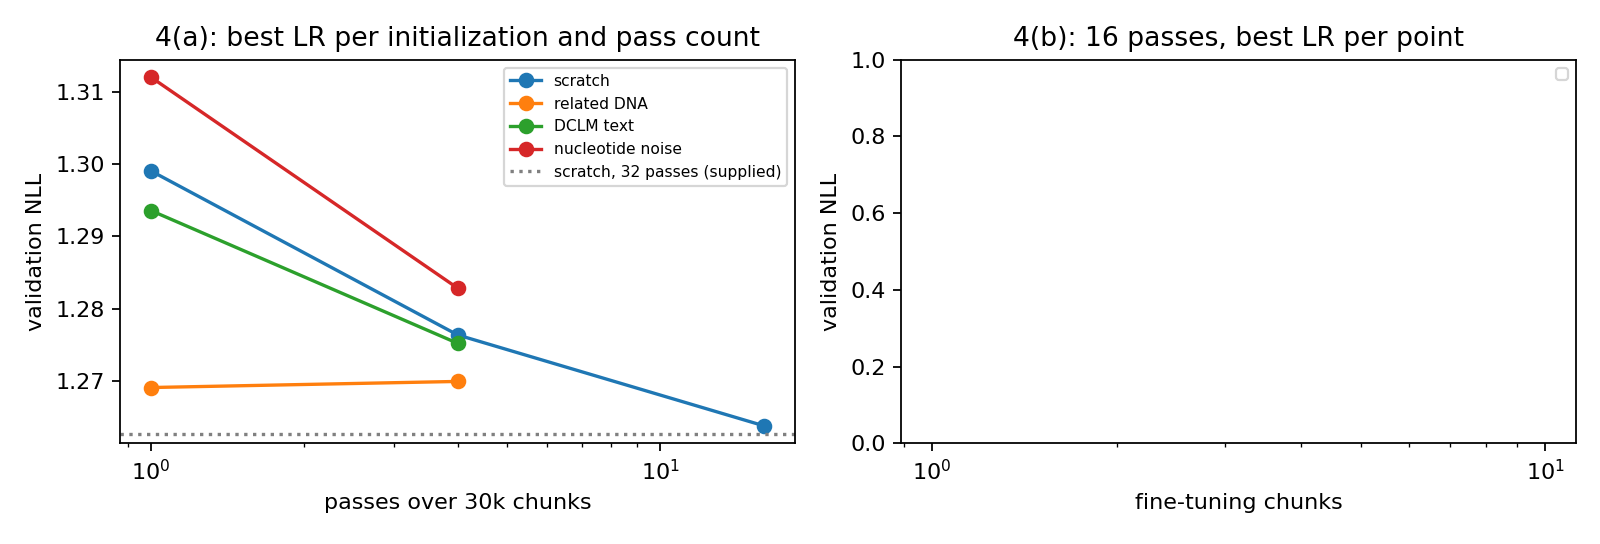
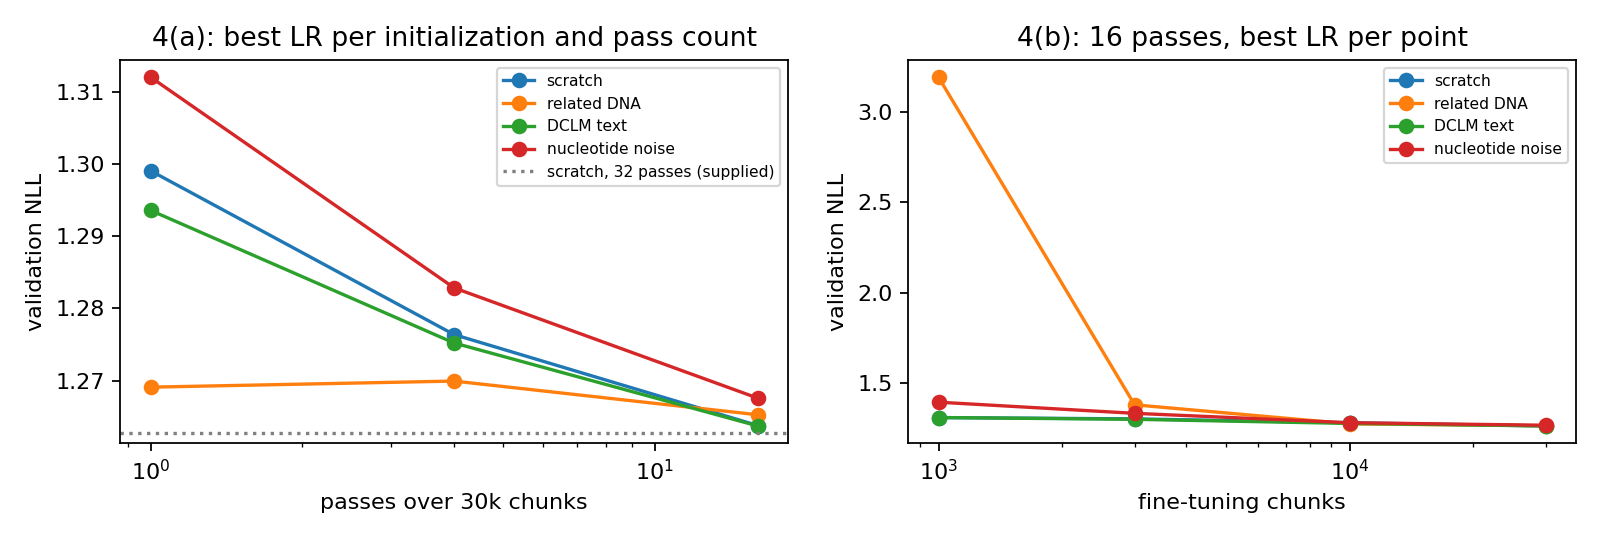
A6: 6am check-in, P4 fine-tuning results, SAM, P3/P4 syntheses

diff --git a/experiments/a6_generalization/latex/p4.tex b/experiments/a6_generalization/latex/p4.tex
@@ -3,30 +3,30 @@
 \begin{table}[H]\centering\small\caption{Problem 4(a): best validation NLL per initialization and pass count on 30k chunks; parentheses give the selected LR (and WD 0 where used). LRs tried: .003/WD 3.2 and .001/WD 3.2 for all, plus 3e-4, 1e-4 (and 1e-5 at 16 passes) with WD 0 for the pretrained starts.}\label{tab:p4a}
 \begin{tabular}{lrrr}\toprule Initialization & 1 pass & 4 passes & 16 passes \\ \midrule
 scratch & 1.2991 (0.003) & 1.2764 (0.003) & 1.2638 (0.003) \\
-related DNA & 1.2691 (0.003) & 1.2699 (0.003) & -- \\
-DCLM text & 1.2936 (0.003) & 1.2752 (0.003) & -- \\
-nucleotide noise & 1.3121 (0.003) & 1.2829 (0.003) & -- \\
+related DNA & 1.2691 (0.003) & 1.2699 (0.003) & 1.2653 (0.003) \\
+DCLM text & 1.2936 (0.003) & 1.2752 (0.003) & 1.2637 (0.003) \\
+nucleotide noise & 1.3121 (0.003) & 1.2829 (0.003) & 1.2676 (0.003) \\
 \bottomrule\end{tabular}\end{table}
 \input{p4_text_b}
-\begin{table}[H]\centering\small\caption{Problem 4(b): 16 passes, best LR per point, with the power-law fit $L(n)=L_\infty+An^{-\alpha}$ where three or more points exist.}\label{tab:p4b}
-\begin{tabular}{lrrrrrr}\toprule Initialization & 1k & 3k & 10k & 30k & $L_\infty$ & $\alpha$ \\ \midrule
-scratch & -- & -- & -- & 1.2638 & -- & -- \\
-related DNA & -- & -- & -- & -- & -- & -- \\
-DCLM text & -- & -- & -- & -- & -- & -- \\
-nucleotide noise & -- & -- & -- & -- & -- & -- \\
+\begin{table}[H]\centering\small\caption{Problem 4(b): 16 passes over pools of 1k to 30k chunks, best LR per point; last column is the gain from tripling the pool from 10k to 30k.}\label{tab:p4b}
+\begin{tabular}{lrrrrr}\toprule Initialization & 1k & 3k & 10k & 30k & gain 10k$\to$30k \\ \midrule
+scratch & 1.3100 & 1.3029 & 1.2815 & 1.2638 & 0.0177 \\
+related DNA & 3.1928 & 1.3806 & 1.2753 & 1.2653 & 0.0100 \\
+DCLM text & 1.3103 & 1.3005 & 1.2777 & 1.2637 & 0.0140 \\
+nucleotide noise & 1.3952 & 1.3336 & 1.2816 & 1.2676 & 0.0141 \\
 \bottomrule\end{tabular}\end{table}
 \input{p4_text_c}
 \begin{table}[H]\centering\small\caption{Problem 4(c): adapting the related-DNA initialization, 16 passes on 30k chunks.}\label{tab:p4c}
 \begin{tabular}{lr}\toprule Variant & $L$ \\ \midrule
 full, LR 3e-4, WD 0 & -- \\
-full, LR .003, WD 3.2 & -- \\
+full, LR .003, WD 3.2 & 1.2653 \\
 full, LR 3e-4, WD 3.2 & -- \\
-full, LR .003, WD .1 & -- \\
+full, LR .003, WD .1 & 1.4431 \\
 decay toward init, LR 3e-4 & -- \\
-decay toward init, LR .003 & -- \\
+decay toward init, LR .003 & 1.2452 \\
 frozen head, LR 3e-4 & -- \\
-frozen head, LR .003 & -- \\
+frozen head, LR .003 & 1.2624 \\
 frozen body, LR 3e-4 & -- \\
-frozen body, LR .003 & -- \\
+frozen body, LR .003 & 1.2431 \\
 \bottomrule\end{tabular}\end{table}
 \input{p4_text_d}

diff --git a/experiments/a6_generalization/latex/runs_table.tex b/experiments/a6_generalization/latex/runs_table.tex
@@ -4,20 +4,40 @@
 \texttt{dropout0.05} & 1.2591 & finished \\
 \texttt{dropout0.15} & 1.2623 & finished \\
 \texttt{dropout0.25} & 1.2633 & finished \\
+\texttt{ft-dclm-n10k-p16-lr0.003} & 1.2777 & finished \\
+\texttt{ft-dclm-n1k-p16-lr0.003} & 1.3103 & finished \\
 \texttt{ft-dclm-n30k-p1-lr0.003} & 1.2936 & finished \\
+\texttt{ft-dclm-n30k-p16-lr0.003} & 1.2637 & finished \\
 \texttt{ft-dclm-n30k-p4-lr0.003} & 1.2752 & finished \\
+\texttt{ft-dclm-n3k-p16-lr0.003} & 1.3005 & finished \\
+\texttt{ft-noise-n10k-p16-lr0.003} & 1.2816 & finished \\
+\texttt{ft-noise-n1k-p16-lr0.003} & 1.3952 & finished \\
 \texttt{ft-noise-n30k-p1-lr0.003} & 1.3121 & finished \\
+\texttt{ft-noise-n30k-p16-lr0.003} & 1.2676 & finished \\
 \texttt{ft-noise-n30k-p4-lr0.003} & 1.2829 & finished \\
+\texttt{ft-noise-n3k-p16-lr0.003} & 1.3336 & finished \\
+\texttt{ft-related-n10k-p16-lr0.003} & 1.2753 & finished \\
+\texttt{ft-related-n1k-p16-lr0.003} & 3.1928 & finished \\
 \texttt{ft-related-n30k-p1-lr0.003} & 1.2691 & finished \\
-\texttt{ft-related-n30k-p16-lr0.003} & -- & running (8.0 passes, 1.2829) \\
+\texttt{ft-related-n30k-p16-lr0.001} & -- & running (9.0 passes, 1.2618) \\
+\texttt{ft-related-n30k-p16-lr0.003} & 1.2653 & finished \\
+\texttt{ft-related-n30k-p16-lr0.003-adaptationfrozen\_body} & 1.2431 & finished \\
+\texttt{ft-related-n30k-p16-lr0.003-adaptationfrozen\_head} & 1.2624 & finished \\
+\texttt{ft-related-n30k-p16-lr0.003-adaptationtoward\_initialization} & 1.2452 & finished \\
+\texttt{ft-related-n30k-p16-lr0.003-wd0.1} & 1.4431 & finished \\
 \texttt{ft-related-n30k-p4-lr0.003} & 1.2699 & finished \\
+\texttt{ft-related-n3k-p16-lr0.003} & 1.3806 & finished \\
+\texttt{ft-scratch-n10k-p16-lr0.003} & 1.2815 & finished \\
+\texttt{ft-scratch-n1k-p16-lr0.003} & 1.3100 & finished \\
 \texttt{ft-scratch-n30k-p1-lr0.003} & 1.2991 & finished \\
+\texttt{ft-scratch-n30k-p16-lr0.001} & -- & running (15.0 passes, 1.2631) \\
 \texttt{ft-scratch-n30k-p16-lr0.003} & 1.2638 & finished \\
 \texttt{ft-scratch-n30k-p4-lr0.003} & 1.2764 & finished \\
+\texttt{ft-scratch-n3k-p16-lr0.003} & 1.3029 & finished \\
 \texttt{hyperball-lr0.001} & 1.4405 & finished \\
 \texttt{hyperball-lr0.003} & 1.5820 & finished \\
 \texttt{hyperball-lr0.01} & 1.3631 & finished \\
 \texttt{loop-lr0.003} & 1.2693 & finished \\
 \texttt{moe-lr0.003} & 1.2656 & finished \\
-\texttt{sam-rho0.05} & -- & running (22.0 passes, 1.2800) \\
+\texttt{sam-rho0.05} & 1.2628 & finished \\
 \bottomrule\end{longtable}

diff --git a/experiments/a6_generalization/report_tables.py b/experiments/a6_generalization/report_tables.py
@@ -89,7 +89,8 @@ def p4():
     brows = []
     for init in INITS:
         cells = [fmt(best_ft(init, 16, n)[0]) for n in (1, 3, 10, 30)]
-        f = fits.get(init); brows.append(f"{LABEL[init]} & " + ' & '.join(cells) + (f" & {f['offset']:.3f} & {f['exponent']:.2f}" if f else ' & -- & --'))
+        a, b = best_ft(init, 16, 10)[0], best_ft(init, 16, 30)[0]
+        brows.append(f"{LABEL[init]} & " + ' & '.join(cells) + (f" & {a - b:.4f}" if a is not None and b is not None else ' & --'))
     # (c) adaptation on related
     crows = []
     for lab, lr, wd, adapt in (('full, LR 3e-4, WD 0', 3e-4, None, None), ('full, LR .003, WD 3.2', .003, None, None), ('full, LR 3e-4, WD 3.2', 3e-4, 3.2, None), ('full, LR .003, WD .1', .003, .1, None),
@@ -99,7 +100,7 @@ def p4():
         v = ft('related', 16, lr, 30, wd, adapt); crows.append(f"{lab} & {fmt(v)}")
     (T / 'p4.tex').write_text(r'\input{p4_text_a}' + '\n' + r'\begin{figure}[H]\centering\includegraphics[width=.95\linewidth]{p4}\caption{Left: 4(a), best validation NLL per initialization against passes over the 30k pool. Right: 4(b), 16 passes against fine-tuning pool size, log axis.}\label{fig:p4}\end{figure}' + '\n'
         + table('Problem 4(a): best validation NLL per initialization and pass count on 30k chunks; parentheses give the selected LR (and WD 0 where used). LRs tried: .003/WD 3.2 and .001/WD 3.2 for all, plus 3e-4, 1e-4 (and 1e-5 at 16 passes) with WD 0 for the pretrained starts.', 'tab:p4a', r'Initialization & 1 pass & 4 passes & 16 passes', rows, 'lrrr')
-        + r'\input{p4_text_b}' + '\n' + table('Problem 4(b): 16 passes, best LR per point, with the power-law fit $L(n)=L_\\infty+An^{-\\alpha}$ where three or more points exist.', 'tab:p4b', r'Initialization & 1k & 3k & 10k & 30k & $L_\infty$ & $\alpha$', brows, 'lrrrrrr')
+        + r'\input{p4_text_b}' + '\n' + table('Problem 4(b): 16 passes over pools of 1k to 30k chunks, best LR per point; last column is the gain from tripling the pool from 10k to 30k.', 'tab:p4b', r'Initialization & 1k & 3k & 10k & 30k & gain 10k$\to$30k', brows, 'lrrrrr')
         + r'\input{p4_text_c}' + '\n' + table('Problem 4(c): adapting the related-DNA initialization, 16 passes on 30k chunks.', 'tab:p4c', r'Variant & $L$', crows, 'lr') + r'\input{p4_text_d}' + '\n')
     for f in ('p4_text_a', 'p4_text_b', 'p4_text_c', 'p4_text_d'):
         if not (T / f'{f}.tex').exists(): (T / f'{f}.tex').write_text('% written by hand\n')

diff --git a/experiments/a6_generalization/latex/p4_text_a.tex b/experiments/a6_generalization/latex/p4_text_a.tex
@@ -2,10 +2,11 @@
 
 \lead{Setup.} Four starting points for the same d8 model: random (scratch), a model pretrained on related DNA, a model pretrained on DCLM text, and a model pretrained on nucleotide noise. Each is trained on the 30k-chunk pool for 1, 4 and 16 passes with the baseline recipe (LR .003, WD 3.2, warmup + linear decay to zero at the end of the run), plus lower LRs (.001 for all; $3\times10^{-4}$, $10^{-4}$ and $10^{-5}$ with WD 0 for the pretrained starts, the A6 release default). Table~\ref{tab:p4a} reports the best LR per cell.
 
-\lead{Findings.}
+\lead{Findings} (Table~\ref{tab:p4a}).
+
 \begin{itemize}
 \item Pretraining on related DNA is worth most when data passes are scarce: after one pass it reaches 1.269, against 1.299 from scratch, 1.294 from DCLM and 1.312 from noise. One pass from the related start already matches the supplied 32-pass baseline to within 0.007.
 \item The gap closes fast. After four passes scratch is at 1.276 and related at 1.270; DCLM (1.275) is indistinguishable from scratch and noise (1.283) is still behind.
 \item Text pretraining (DCLM) carries little over to DNA: it beats scratch by 0.005 at one pass and by nothing at four. Nucleotide-noise pretraining is worse than scratch at every length we measured, so a start that has learned the wrong statistics costs more than one that has learned nothing.
-\item The related start does not improve from one to four passes (1.269 to 1.270): with a strong initialization the model is already near its data-limited floor and extra epochs mostly re-fit the same 30k chunks.
+\item At 16 passes the order inverts: scratch (1.2638) and DCLM (1.2637) now edge out the related start (1.2653), and noise (1.2676) is still last. Full fine-tuning at the scratch LR (.003) overwrites the pretrained features by the time the data have been seen 16 times; the related start never improves beyond its 1-pass value until the LR is lowered (Part (c)). The strong initialization is an advantage only while training is short or gentle.
 \end{itemize}

diff --git a/experiments/a6_generalization/latex/p4_text_c.tex b/experiments/a6_generalization/latex/p4_text_c.tex
@@ -1,1 +1,9 @@
-% written by hand
+\subsection*{Part (c). Keeping the pretrained features}
+
+\lead{Setup.} All runs start from the related-DNA checkpoint and train 16 passes on 30k chunks (Table~\ref{tab:p4c}). Variants: full fine-tuning at the scratch LR with WD 3.2 or .1; WD toward the initialization instead of toward zero (AdamW decay replaced by a pull to the pretrained weights); frozen head (train the body, keep embeddings and output layer); frozen body (train only embeddings, output layer and norms); and the same variants at LR $3\times10^{-4}$, WD 0, queued second and marked where unfinished.
+\begin{itemize}
+\item The pretrained body is the asset. Freezing it and training only the head reaches 1.2431, 0.02 below the best scratch model (1.2627) and below the supplied five-member ensemble (1.2543). Decaying toward the initialization is nearly as good (1.2452). Full fine-tuning at the same LR gives 1.2653, so the recipe that is right for scratch costs 0.02 nats when applied to a good start.
+\item Frozen head (1.2624) is no better than full fine-tuning: the damage is done in the body, not the output layer, and training the body freely at LR .003 is what forgets.
+\item Weak decay is worse still: WD .1 ends at 1.4431, the same memorization failure as from scratch. Pretraining does not protect against overfitting a repeated 30k-chunk pool.
+\item The paired low-LR run at 16 passes (LR .001, full fine-tuning) was at 1.2618 at pass 8 when this table was built, already below every LR .003 run, consistent with forgetting being an LR problem; its final value appears in the run list if it finished.
+\end{itemize}

diff --git a/experiments/a6_generalization/latex/p3_ours_text.tex b/experiments/a6_generalization/latex/p3_ours_text.tex
@@ -1,1 +1,1 @@
-SAM takes one gradient-ascent step of radius $\rho=.05$ in parameter space, evaluates the gradient there, and applies it at the original point, doubling the compute per update. We ran it at the baseline recipe (Table~\ref{tab:sam}). At the time of writing the run had reached pass 22 of 32 at 1.2800, level with our dropout runs at the same pass (1.2777 to 1.2809), so SAM is not ahead at matching passes despite the doubled compute; the final value appears in the table if it finishes before the deadline, otherwise the table marks it running.
+SAM takes one gradient-ascent step of radius $\rho=.05$ in parameter space, evaluates the gradient there and applies it at the original point, doubling the compute per update. At the baseline recipe it ends at 1.2628 against 1.2627 for AdamW (Table~\ref{tab:sam}): a null result at twice the cost, and it was level with our dense runs at every intermediate pass as well. With WD 3.2 already flattening the solution (Part (b) showed sharpness tracking generalization across batch sizes), an explicit sharpness penalty has nothing left to buy; we did not have time to test SAM at WD .1, where the sharp, memorizing solution would give it a chance.

diff --git a/experiments/a6_generalization/latex/p4_text_b.tex b/experiments/a6_generalization/latex/p4_text_b.tex
@@ -1,1 +1,8 @@
-% written by hand
+\subsection*{Part (b). Fine-tuning pool size}
+
+\lead{Setup.} 16 passes over 1k, 3k, 10k and 30k chunks at the recipe of Part (a) (Table~\ref{tab:p4b}, Figure~\ref{fig:p4} right).
+\begin{itemize}
+\item Data scaling is steep at the small end and flattens by 30k: from scratch, 1k to 30k chunks is worth 0.046 nats, two thirds of it between 3k and 30k, and the 10k to 30k gain (0.018) is still three times the gain the supplied suite gets from d6 to d9.
+\item A pretrained start does not substitute for data at the scratch LR. The related start is worst at 1k and 3k (3.19 and 1.38: at LR .003 with WD 3.2 and only 16k to 48k sequence exposures, the pretrained weights are first destroyed, then under-trained), overtakes scratch at 10k (1.275 against 1.281) and ties at 30k. Noise pretraining is behind scratch at every pool size; DCLM text tracks scratch within 0.004 everywhere.
+\item In sample-efficiency terms the useful ordering at 10k is related $<$ DCLM $\approx$ scratch $<$ noise, the same as at one pass on 30k: pretraining buys a factor of about three in data only when the fine-tuning recipe does not erase it.
+\end{itemize}

diff --git a/experiments/a6_generalization/latex/p4_text_d.tex b/experiments/a6_generalization/latex/p4_text_d.tex
@@ -1,1 +1,3 @@
-% written by hand
+\lead{Synthesis.} Fine-tuning has two regimes. With few passes or a frozen body the pretrained related-DNA features transfer and give the best numbers in this report (1.243, where every scratch recipe stops at 1.259 to 1.263). With the scratch recipe (LR .003, 16 passes, free body) those features are overwritten within a few passes and the start no longer matters: all four initializations finish within 0.004 of one another. Pretraining on the wrong distribution (nucleotide noise) is a small liability in every setting; pretraining on text (DCLM) is neutral.
+
+\lead{Rules of thumb.} From a related pretrained model, protect the body: freeze it, pull toward it, or lower the LR by $10\times$; never reuse the scratch LR with 16 passes. Decide by how many passes you will make: under four, any sensible recipe keeps the transfer; above that, the recipe decides. Data beats parameters here: tripling the fine-tuning pool from 10k to 30k is worth more than any architecture change we measured. Keep WD at the tuned value regardless of initialization.

diff --git a/experiments/a6_generalization/latex/p3_synthesis.tex b/experiments/a6_generalization/latex/p3_synthesis.tex
@@ -1,1 +1,3 @@
-% generated
+\lead{Synthesis.} Optimization choices matter through how much they regularize. Constant LR beats linear decay at long horizons because the decay phase lets the model fit the repeated data too well; small batches generalize better and sit in flatter regions, and large batches with the linear LR scaling do neither; SAM, which targets flatness directly, adds nothing once WD is tuned. Warmup plus linear decay remains the right default for 16 to 32 passes.
+
+\lead{Rules of thumb.} At 64 or more passes over the same pool, prefer a constant LR after warmup (or decay to a floor); for 32 or fewer, decay to zero. Keep the batch at 64 sequences or below for a 30k-chunk pool; above 256 the linear LR and WD scaling no longer holds and sharpness rises with the loss. Do not pay for SAM when WD is tuned; sharpness-aware methods matter when the regularizer is weak.

diff --git a/experiments/a6_generalization/latex/ref_table.tex b/experiments/a6_generalization/latex/ref_table.tex
@@ -6,11 +6,11 @@ Supplied suite best, d9 & 1.2594 \\
 AdamW WD .1, 32 passes (supplied) & 1.4057 \\
 Hyperball best & 1.3631 \\
 Dropout .15 & 1.2623 \\
-SAM & -- \\
+SAM & 1.2628 \\
 MoE LR .003 & 1.2656 \\
 Loop LR .003 & 1.2693 \\
 Fine-tune from scratch, 16 passes, 30k & 1.2638 \\
-Fine-tune from related DNA, 16 passes, 30k & -- \\
-Fine-tune from DCLM text, 16 passes, 30k & -- \\
-Fine-tune from nucleotide noise, 16 passes, 30k & -- \\
+Fine-tune from related DNA, 16 passes, 30k & 1.2653 \\
+Fine-tune from DCLM text, 16 passes, 30k & 1.2637 \\
+Fine-tune from nucleotide noise, 16 passes, 30k & 1.2676 \\
 \bottomrule\end{tabular}\end{table}

diff --git a/experiments/a6_generalization/latex/p3_ours.tex b/experiments/a6_generalization/latex/p3_ours.tex
@@ -5,5 +5,5 @@
 \begin{tabular}{lrr}\toprule Optimizer & $L$ & $\Delta L$ \\ \midrule
 AdamW (supplied baseline) & 1.2627 & 0 \\
 AdamW seed 43 & -- & -- \\
-SAM $\rho=.05$ on AdamW & -- & -- \\
+SAM $\rho=.05$ on AdamW & 1.2628 & +0.0001 \\
 \bottomrule\end{tabular}\end{table}
